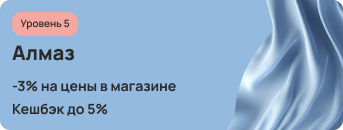
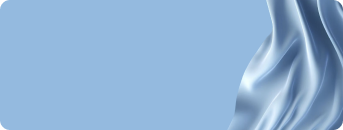
finished bugs2

diff --git a/lib/features/profile/presentation/screens/trade_profile_screen.dart b/lib/features/profile/presentation/screens/trade_profile_screen.dart
@@ -57,9 +57,57 @@ class TradeProfileScreen extends StatelessWidget {
                   ],
                 ),
               ),
-              Image.asset(
-                Assets.assetsImagesProfileAdvertisementImage,
-                width: double.infinity,
+              Container(
+                padding: const EdgeInsets.symmetric(
+                  vertical: 16,
+                ),
+                decoration: BoxDecoration(
+                  borderRadius: BorderRadius.circular(12),
+                  image: DecorationImage(
+                    image: AssetImage(
+                        Assets.assetsImagesProfileAdvertisementImage),
+                    fit: BoxFit.fill, // أو BoxFit.cover حسب الحاجة
+                  ),
+                ),
+                child: Column(
+                  crossAxisAlignment: CrossAxisAlignment.center,
+                  children: [
+                    CustomText(
+                      text: 'Become a seller'.tr(),
+                      fontSize: 12.sp,
+                      fontWeight: FontWeight.w700,
+                      color: AppColors.grey,
+                    ),
+                    2.ph,
+                    CustomText(
+                      text: 'Low commission'.tr(),
+                      fontSize: 20.sp,
+                      fontWeight: FontWeight.w800,
+                    ),
+                    2.ph,
+                    CustomText(
+                      text:
+                          'Grab!\'s 8% commission is one of\n the lowest in the industry.'
+                              .tr(),
+                      fontSize: 12.sp,
+                      fontWeight: FontWeight.w700,
+                      textAlign: TextAlign.center,
+                      color: AppColors.grey,
+                    ),
+                    16.ph,
+                    Padding(
+                      padding: const EdgeInsets.symmetric(
+                        horizontal: 90,
+                      ),
+                      child: CustomButton(
+                        color: AppColors.primaryColor,
+                        title: 'Get started'.tr(),
+                        onPressed: () {},
+                      ),
+                    ),
+                    60.ph
+                  ],
+                ),
               ),
             ],
           );

diff --git a/lib/core/customs/custom_awards_card.dart b/lib/core/customs/custom_awards_card.dart
@@ -1,0 +1,65 @@
+part of 'customs.dart';
+
+class CustomAwardsCard extends StatelessWidget {
+  final String imagePath;
+  final String level;
+  final String title;
+  final List<String> features;
+
+  const CustomAwardsCard({
+    super.key,
+    required this.imagePath,
+    required this.level,
+    required this.title,
+    required this.features,
+  });
+
+  @override
+  Widget build(BuildContext context) {
+    return Container(
+      padding: const EdgeInsets.all(12),
+      decoration: BoxDecoration(
+        borderRadius: BorderRadius.circular(12),
+        image: DecorationImage(
+          image: AssetImage(imagePath),
+          fit: BoxFit.fill,
+        ),
+      ),
+      child: Column(
+        crossAxisAlignment: CrossAxisAlignment.start,
+        children: [
+          Container(
+            padding: const EdgeInsets.symmetric(horizontal: 8, vertical: 4),
+            decoration: BoxDecoration(
+              color: AppColors.primaryPink,
+              borderRadius: BorderRadius.circular(10.r),
+            ),
+            child: CustomText(
+              text: level,
+              fontSize: 12.sp,
+              fontWeight: FontWeight.w600,
+              color: AppColors.blackDark,
+            ),
+          ),
+          4.ph,
+          CustomText(
+            text: title,
+            fontWeight: FontWeight.w800,
+            fontSize: 20.sp,
+            fontFamily: "Manrope",
+          ),
+          12.ph,
+          ...features.map((f) => Padding(
+                padding: const EdgeInsets.only(bottom: 4),
+                child: CustomText(
+                  text: f,
+                  fontWeight: FontWeight.w700,
+                  fontSize: 14.sp,
+                  fontFamily: "Manrope",
+                ),
+              )),
+        ],
+      ),
+    );
+  }
+}

diff --git a/lib/features/profile/presentation/screens/my_awards_screen.dart b/lib/features/profile/presentation/screens/my_awards_screen.dart
@@ -49,16 +49,21 @@ class MyAwardsScreen extends StatelessWidget {
                 itemBuilder: (context, index) {
                   return Padding(
                     padding: const EdgeInsets.only(bottom: 10),
-                    child: Container(
-                      height: 180,
-                      width: double.infinity,
-                      decoration: BoxDecoration(
-                        borderRadius: BorderRadius.circular(12),
-                        image: DecorationImage(
-                          image: AssetImage(rewardImages[index]),
-                          fit: BoxFit.fill,
-                        ),
-                      ),
+                    child: CustomAwardsCard(
+                      imagePath: rewardImages[index],
+                      level: 'Level ${index + 1}'.tr(),
+                      title: [
+                        'bronze'.tr(),
+                        'silver'.tr(),
+                        'gold'.tr(),
+                        'diamond'.tr(),
+                        'platinum'.tr(),
+                      ][index]
+                          .tr(),
+                      features: [
+                        "-${(index + 1) * 3}% on prices in the store".tr(),
+                        "Cashback up to ${(index + 1) * 5}%".tr(),
+                      ],
                     ),
                   );
                 },

diff --git a/lib/features/profile/presentation/widgets/change_password_field.dart b/lib/features/profile/presentation/widgets/change_password_field.dart
@@ -12,6 +12,20 @@ class PasswordField extends StatelessWidget {
           crossAxisAlignment: CrossAxisAlignment.start,
           children: [
             CustomTextField(
+              hintText: 'old password'.tr(),
+              isRequired: false,
+              obscureText: state.obscurePassword,
+              suffixIcon: IconButton(
+                icon: state.obscurePassword
+                    ? SvgPicture.asset(Assets.assetsIconsEyeClosed)
+                    : Icon(Icons.remove_red_eye_outlined),
+                onPressed: cubit.toggleObscurePassword,
+              ),
+              onChanged: (value) => cubit.updateField('password', value),
+              validator: cubit.validatePassword,
+            ),
+            8.ph,
+            CustomTextField(
               hintText: 'New password'.tr(),
               isRequired: false,
               obscureText: state.obscurePassword,

diff --git a/lib/features/profile/presentation/profile.dart b/lib/features/profile/presentation/profile.dart
@@ -1,5 +1,4 @@
 import 'dart:io';
-
 import 'package:cached_network_image/cached_network_image.dart';
 import 'package:dotted_border/dotted_border.dart';
 import 'package:easy_localization/easy_localization.dart';

diff --git a/lib/core/customs/customs.dart b/lib/core/customs/customs.dart
@@ -38,3 +38,4 @@ part 'custom_select_gender.dart';
 part 'custom_item_four_container.dart';
 part 'custom_stat_column.dart';
 part 'custom_vertical_divider.dart';
+part 'custom_awards_card.dart';
